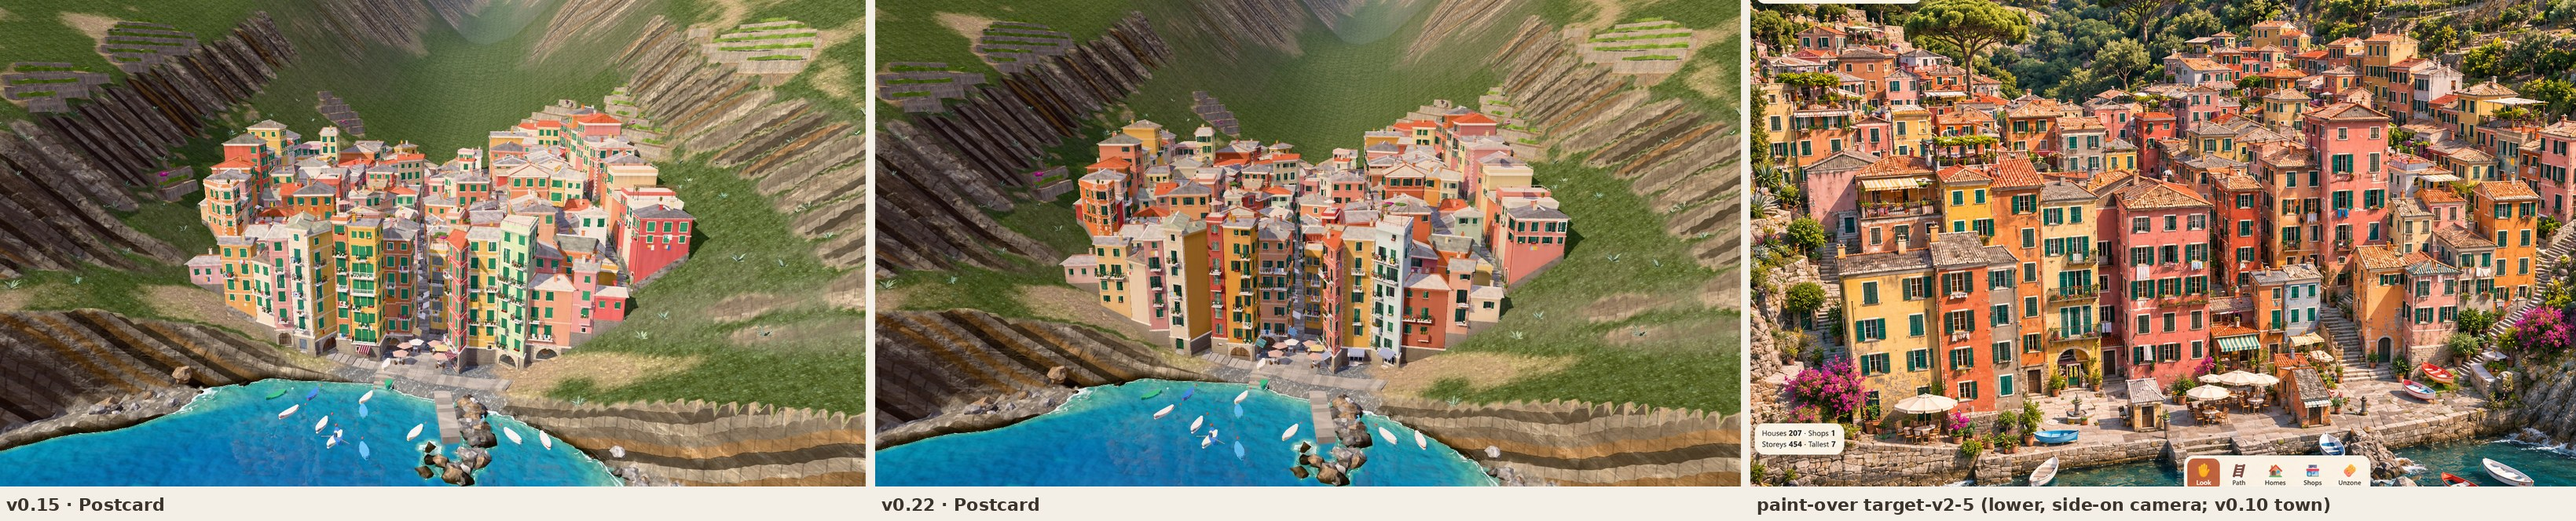
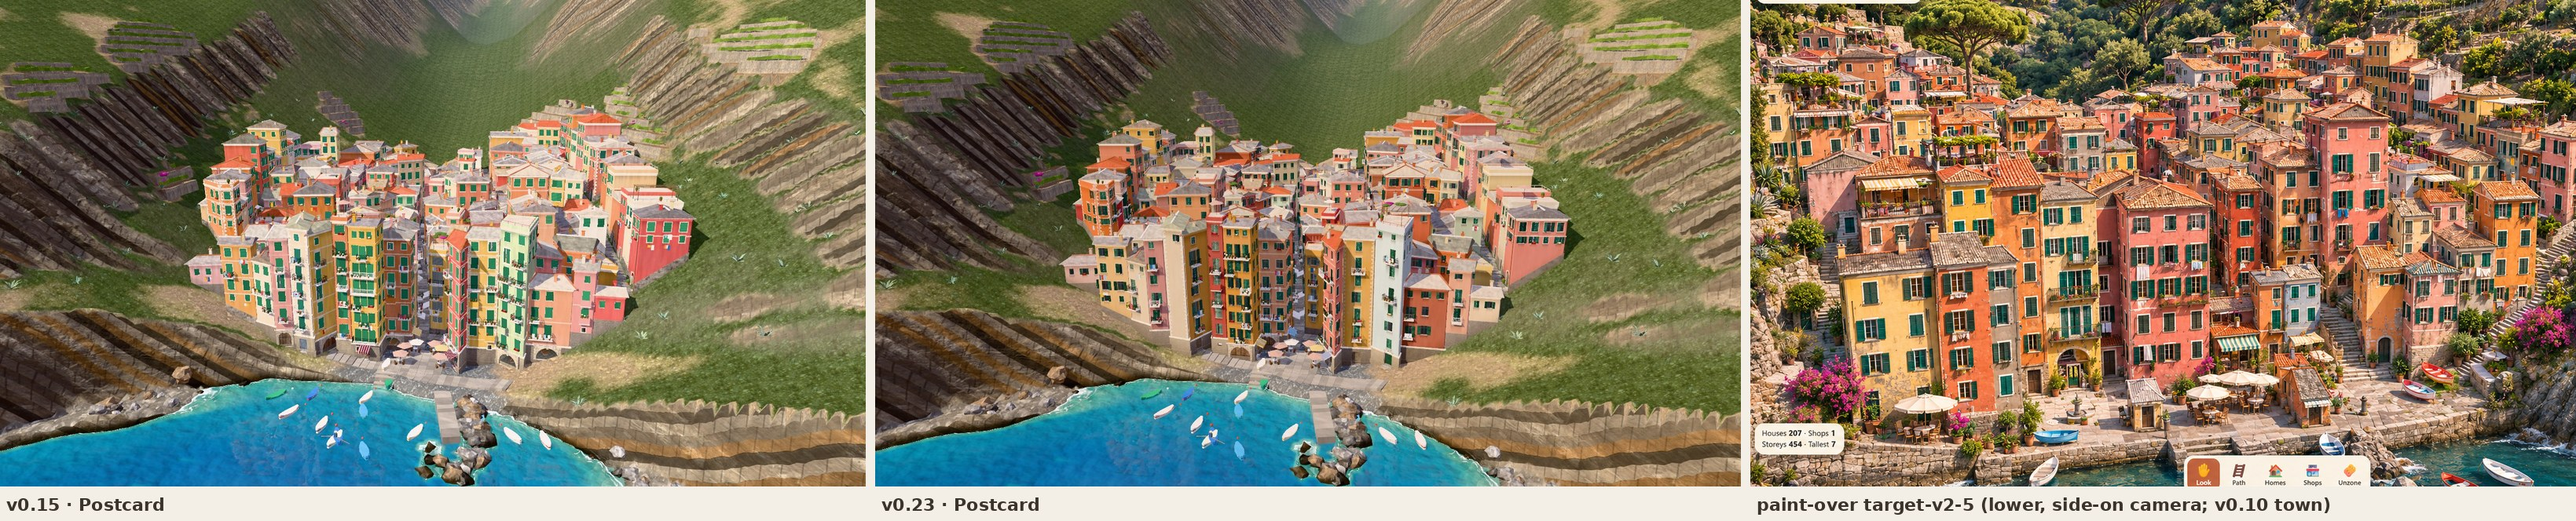
v0.23 · Built and sunlit: corner windows restored; blank walls only face inland; final sheets
Stage 6's 30 cm corner margin made the neighbour-clearance rule drop whole window columns
(edgeMargin back to 0.48 m). Blank and one-column walls are limited to walls facing inland,
which the Postcard and Overview cameras do not see. 2,195 windows, 117 balconies.
Unit 61/61, browser suite 27/27.

Claude-Session: https://claude.ai/code/session_01YJo2sndCkTPETBT7ryJhUn

diff --git a/src/buildings.js b/src/buildings.js
@@ -1816,7 +1816,7 @@ export class BuildingRenderer {
       const pitchWanted = (front ? WIN.columns.front : WIN.columns.side) * F.colPitch;
       let cols = Math.max(1, Math.round(L / pitchWanted));
       while (cols > 1 && avail / (cols - 1) < wStd + RH.minGap) cols--;
-      const plainSide = !front && !seaward && !b.arch;
+      const plainSide = !front && !seaward && !b.arch && n[1] < RH.blankFacing;   // (never a wall that looks toward the sea: that is the side the Postcard and Overview cameras see)
       const blankWall = plainSide && rng() < RH.blankWall;                // a wall with no windows at all (a painted one, now and then)
       if (plainSide && rng() < RH.sparseWall) cols = 1;
       const pitch = cols > 1 ? Math.min(pitchWanted, avail / (cols - 1)) : 0;

diff --git a/src/version.js b/src/version.js
@@ -2,4 +2,4 @@
 // version.js — the version label shown in the title pill (top left).
 // Bump it at the end of every round, so the live site shows which round it is.
 // ---------------------------------------------------------------------------
-export const VERSION = 'v0.22 · Sunlit';
+export const VERSION = 'v0.23 · Built and sunlit';

diff --git a/PROGRESS.md b/PROGRESS.md
@@ -25,6 +25,7 @@ once at the very end. After each stage: commit, merge to `main`, publish, screen
 | 5. Plaster weathering | `v0.20 · Weathering` | **done, published** |
 | 6. Break the procedural rhythm | `v0.21 · Rhythm` | **done, published** |
 | Revisit: sunlit colour, and the stipple bug | `v0.22 · Sunlit` | **done, published** |
+| Revisit: corner windows restored, blank walls only facing inland | `v0.23 · Built and sunlit` | **done, published (final)** |
 | Wrap-up: browser suite, final sheets in `docs/progress/final/`, summary | | **done** (see "End of the run") |
 
 **The run is complete.** To carry on, read "End of the run: where it stands" below (it lists
@@ -369,8 +370,8 @@ vertical columns.**
 |---|---|
 | **Storey heights** | each house has its own: ordinary storeys 2.75–3.25 m, a low attic (2.3–2.65 m) on 35% of houses, one storey of higher rooms (+0.25–0.5 m) on 35%, and ±7 cm on every storey. They are fitted so the ground floor still starts at ground level and the eaves stay where the town's growth put them (which still counts 3 m a storey) |
 | **Mismatched window sizes** | per house: width × 0.86–1.06, height × 0.84–1.08 (and never taller than the storey allows); 30% of houses have one column of narrower windows (× 0.76), 25% one storey of shorter ones (× 0.8, sill raised) |
-| **Irregular column spacing between houses** | per house: the spacing between columns is × 0.76–1.08; on 55% of fronts the columns sit to one side instead of centred; windows may stand 30 cm from a corner (was 55) |
-| **Occasional blank walls** | 12% of side and back walls have no windows at all (never the front, never a wall looking over the harbour); another 14% of them have a single column |
+| **Irregular column spacing between houses** | per house: the spacing between columns is × 0.76–1.08; on 55% of fronts the columns sit to one side instead of centred (windows keep 48 cm from a corner: v0.21 tried 30 cm, which lost corner columns to the neighbour-clearance rule; fixed in v0.23) |
+| **Occasional blank walls** | some side and back walls have no windows at all, others a single column (never the front, never a wall looking over the harbour; since v0.23 only walls facing inland: 30% blank, 20% one column) |
 | **Painted fake windows** | a blind column on 18% of fronts (was 8%), painted 6 times in 10; on a blank wall, 12% of the places a window would have been are painted. 89 in the demo town (v0.20: about 60) |
 | **Interrupted string courses** | laid wall by wall now: always along the front, round each other wall only 55% of the time (33% on the back), never where a neighbour hides them, and on 30% of houses the front one stops 40–75% of the way along |
 | **Interrupted cornices** | 48% of houses keep the two-step cornice, 29% have one plain step, 24% none (the eaves sit on the wall), so the cornice line breaks from house to house |
@@ -481,11 +482,32 @@ High ×0.50 of its (old) baseline.
 Pictures: `docs/progress/v0.22/`; the three final sheets (v0.15 | v0.22 | closest target) and
 an enlarged town crop are in **`docs/progress/final/`**.
 
-### End of the run: where it stands (v0.22)
+### Revisit · Corner windows and blank walls (v0.23) — done
+
+Looking at the final Postcard sheet, two big side walls in the front row stood blank, and they
+were not ones the "blank wall" rule had picked.
+- **A regression from Stage 6, fixed.** Stage 6 let windows stand 30 cm from a house's corner
+  (it was 55). That close, the strip in front of the window touches the next house's eaves
+  outline, so the keep-clear-of-neighbours rule (kept, as asked) threw the whole column out.
+  `windows.edgeMargin` is 0.48 m now; the rule and its test are unchanged.
+- **Blank and one-column walls only face inland** (`rhythm.blankFacing`): the Postcard and
+  Overview cameras look in from the sea, so the walls they see keep their windows. To keep the
+  same number of blank walls overall, the chance on an inland-facing wall went up (blank 30%,
+  one column 20%).
+
+Demo town now: **2,195 windows** (v0.21: 1,991; v0.20: 2,492), **117 balconies** (112; 134), 97
+painted windows. Light is unchanged from v0.22: wall pixels 33 / 61 / 77 on High and Low;
+Postcard picture like the paint-overs 31.6 / 59.0 / 78.8, saturation 0.45.
+Frame (High, one run): 4.80 s, 94 draw calls, 0.72 M triangles. Unit 61/61; **browser suite
+27/27, run again after this change**, so it is the true last thing run.
+Pictures: `docs/progress/v0.23/`; the final sheets in `docs/progress/final/` are v0.15 | v0.23 |
+target.
+
+### End of the run: where it stands (v0.23)
 
 **Live:** https://adamglenwines-beep.github.io/Rio/ — the title pill should read
-`v0.22 · Sunlit`. Every stage is its own commit on `main` (v0.16 … v0.22), so any of them can
-be rolled back to.
+`v0.23 · Built and sunlit`. Every stage is its own commit on `main` (v0.16 … v0.23), so any of
+them can be rolled back to.
 
 **How close to the targets, honestly.**
 - *Close:* the light on the walls (typical and brightest lightness, shade of a single wall),
@@ -504,10 +526,10 @@ be rolled back to.
   Overview picture in particular is mostly roofs, so it changed least in this run.
 
 **What got worse.**
-- About 20% fewer windows (1,990 against 2,490) and 16% fewer balconies (112 against 134):
-  blank and one-column side walls and wider spacing. Two big blank side walls face the
-  Postcard camera in the demo town.
-- Frame time about +6% on High in this sandbox; triangles +12%.
+- About 12% fewer windows (2,195 against 2,490) and 13% fewer balconies (117 against 134):
+  wider spacing on some houses, blind columns, and blank or one-column walls on the inland side.
+- Frame time about +6% on High in this sandbox (v0.22, measured back to back with v0.15; v0.23
+  adds windows back: one run 4.80 s against v0.15's 4.22 s mean); triangles +17% (0.72 M).
 - The whole scene is lit by a slightly weaker sun than v0.15 (5.4 → 5.3 at midday, with the new
   tone curve holding highlights back), so ground, rock and sea are a little less bright.
 - Close up, shutter wood is streaky; "ajar" leaves pass through the corner of the reveal by a
@@ -525,8 +547,9 @@ be rolled back to.
 1. Roofs (terracotta share, tile relief, ridge and eaves detail): the biggest gap from above.
 2. Wall richness: a painted wash (warmer and cooler areas) on the plaster, and a second, finer
    plaster photo up close.
-3. `rhythm.blankWall` / `sparseWall` down a little if the town reads too closed; and a rule
-   that the wall facing the harbour camera is never the blank one.
+3. If you see single bright or dark pixels sparkling on walls on your PC (I see none in this
+   sandbox): the walls are now cut into more pieces for the baked shade, and where a big piece
+   meets two small ones a real graphics card can leave pin-holes. Tell me and I'll close them.
 4. Shade: decide between the brief's 37% and the paint-overs' ~30% and set `hemiI` to match.
 5. Tilted lower shutter panels (*gelosie*), and curtains in open windows.
 

diff --git a/DESIGN.md b/DESIGN.md
@@ -116,7 +116,7 @@ A **Manor Lords-style hybrid**:
 - **No two facades alike (v0.21, `data/facades.json` → `rhythm`)**: each house has its own storey
   heights (a low attic on a third, one storey of higher rooms on a third), its own window size
   and spacing, columns that need not sit centred, sometimes a column of narrower windows or a
-  blind column with painted windows; some side walls are blank or have one column; string
+  blind column with painted windows; some inland-facing side walls are blank or have one column; string
   courses stop at corners or part-way; cornices come in three kinds; balconies stack to one side.
   **Windows always stack in vertical columns.** Shutter states vary per window (see Facades).
   Balconies (bars or solid), flower boxes, washing lines, drainpipes, bougainvillea up some
